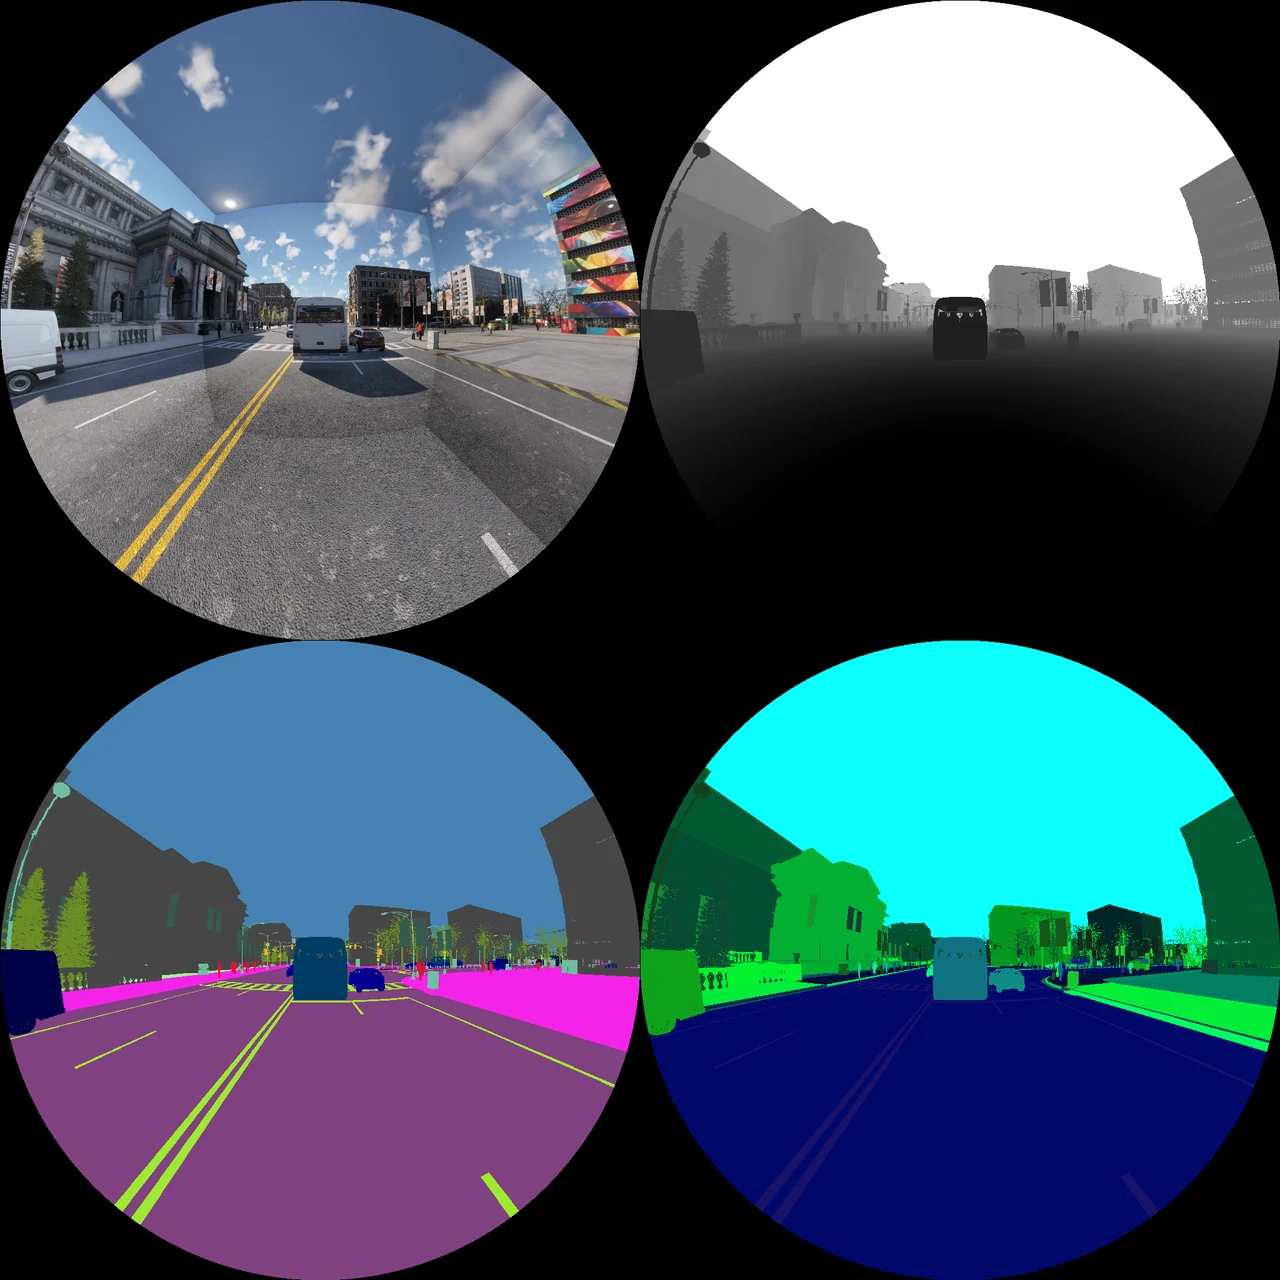
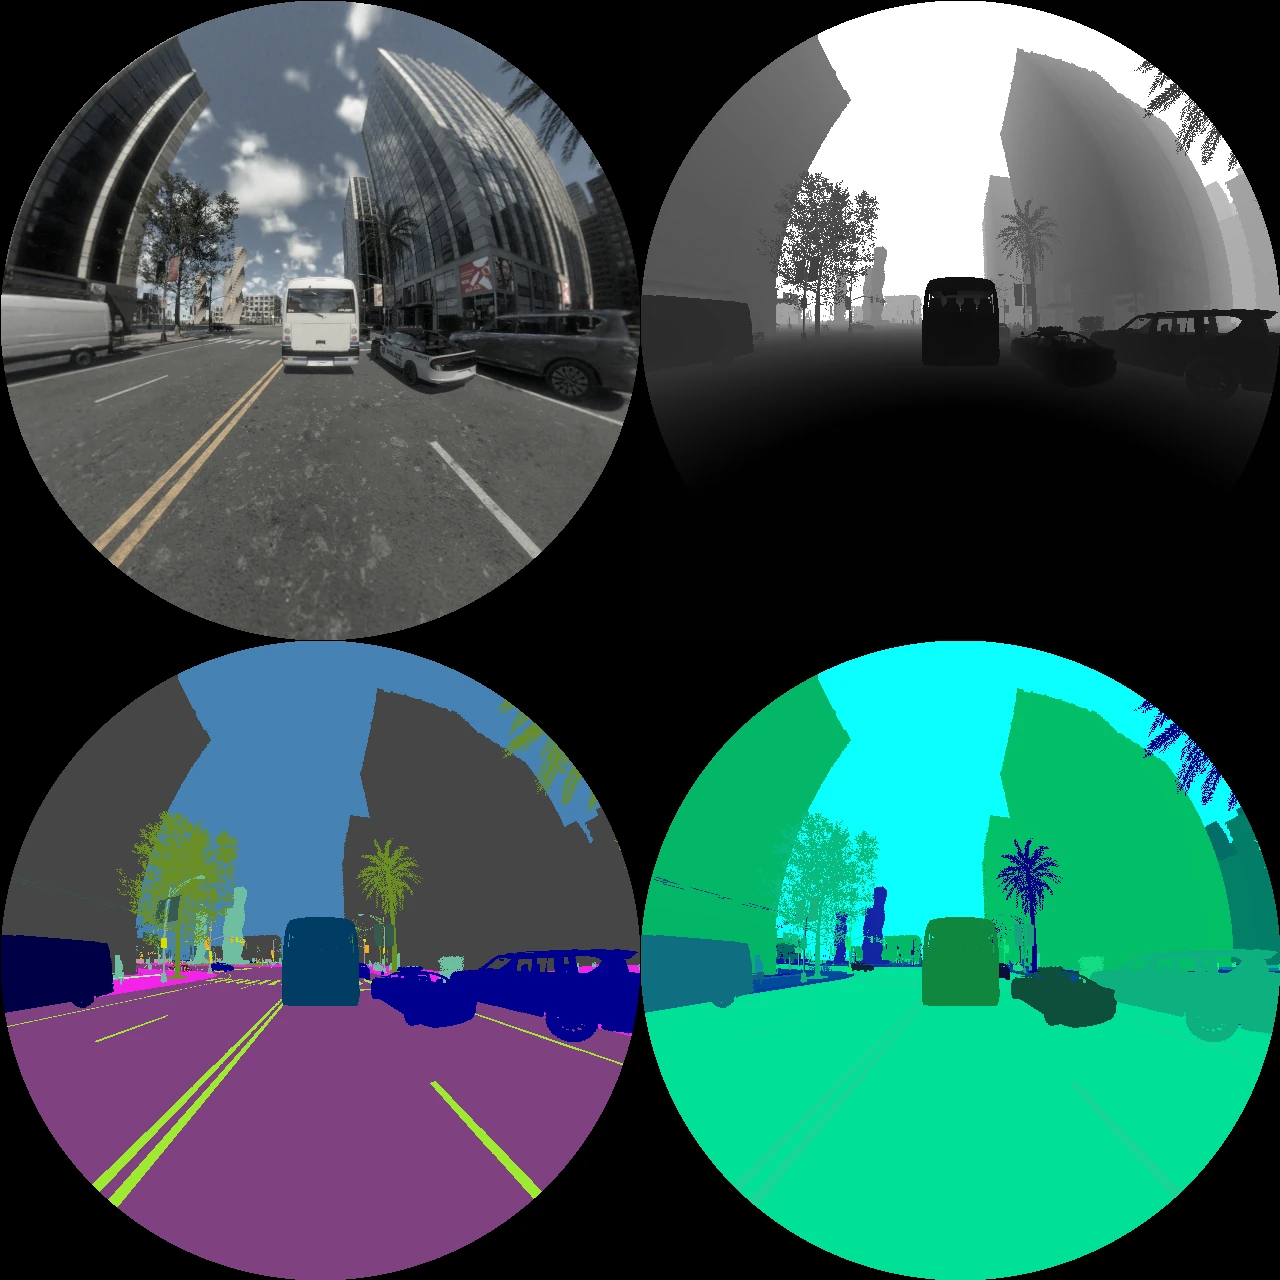
Fixed fisheye cube map autoexposure

diff --git a/Unreal/CarlaUnreal/Plugins/Carla/Source/Carla/Sensor/SceneCaptureSensor_WideAngleLens.cpp b/Unreal/CarlaUnreal/Plugins/Carla/Source/Carla/Sensor/SceneCaptureSensor_WideAngleLens.cpp
@@ -743,6 +743,11 @@ void ASceneCaptureSensor_WideAngleLens::BeginPlay()
         FaceCapture->ShowFlags = PostProcessConfig.EngineShowFlags;
         FaceCapture->PostProcessSettings = PostProcessConfig.PostProcessSettings;
 
+        // The assignment above replaces the settings the constructor put on
+        // this face, auto exposure included: each face would then adapt to its
+        // own view and the cube's faces meet at visible brightness seams.
+        SceneCaptureSensorWideAngleLens_local_ns::SetCameraDefaultOverrides(*FaceCapture);
+
         FaceCapture->CaptureSource = ESceneCaptureSource::SCS_FinalColorLDR;
         FaceCapture->UpdateContent();
         FaceCapture->Activate();
@@ -855,8 +860,16 @@ namespace SceneCaptureSensorWideAngleLens_local_ns {
         PostProcessSettings.VignetteIntensity = 0;
         PostProcessSettings.bOverride_DepthOfFieldVignetteSize = true;
         PostProcessSettings.DepthOfFieldVignetteSize = 0;
+        // Every face must expose identically, or the faces meet at a visible
+        // brightness seam in the resampled lens image.
         PostProcessSettings.bOverride_AutoExposureMethod = true;
         PostProcessSettings.AutoExposureMethod = EAutoExposureMethod::AEM_Manual;
+        PostProcessSettings.bOverride_AutoExposureBias = true;
+        PostProcessSettings.AutoExposureBias = 0.0f;
+        PostProcessSettings.bOverride_AutoExposureMinBrightness = true;
+        PostProcessSettings.AutoExposureMinBrightness = 1.0f;
+        PostProcessSettings.bOverride_AutoExposureMaxBrightness = true;
+        PostProcessSettings.AutoExposureMaxBrightness = 1.0f;
     }
 
 
